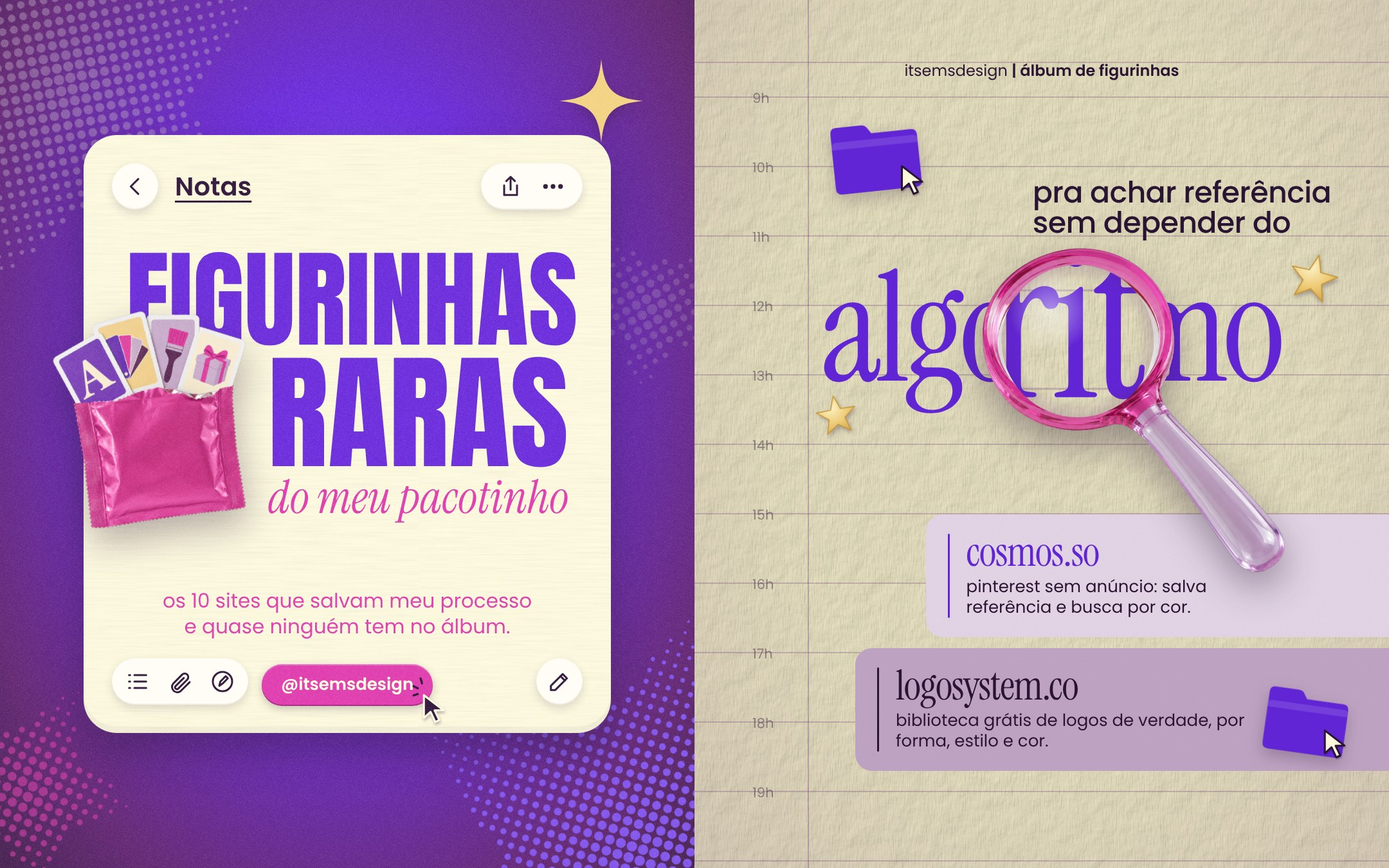
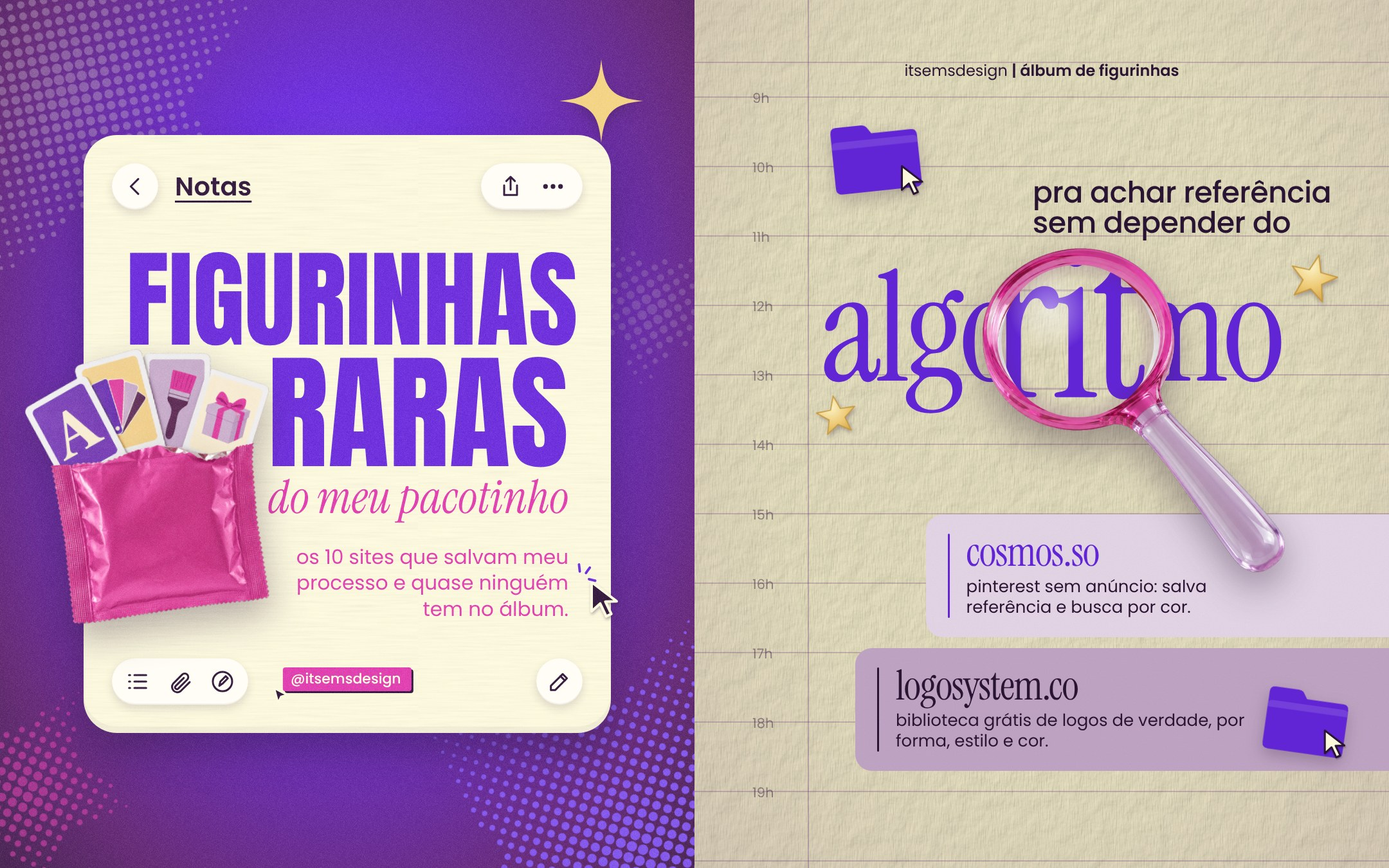
EMS figurinhas raras v4: capa com pacote maior, texto alinhado ao título, @ como etiqueta e clique no cartão
Claude-Session: https://claude.ai/code/session_01CmCiKB9wFc4qQovptupnZT

Changed region(s): [[0.0, 0.3422, 0.4653, 0.84]]

diff --git a/Emi/ems-album-figurinhas/projeto/carrossel.html b/Emi/ems-album-figurinhas/projeto/carrossel.html
@@ -101,17 +101,15 @@ const brilho4 = (x, y, tam, cor, r = 0) => `<svg class="abs" style="left:${x}px;
       <div class="abs" style="left:66px;top:182px;font-family:'Anton';font-size:166px;line-height:.9;color:var(--violeta)">FIGURINHAS</div>
       <div class="abs" id="capa-raras" style="right:66px;top:344px;font-family:'Anton';font-size:196px;line-height:.9;color:var(--violeta)">RARAS</div>
       <div class="abs" id="capa-pac" style="right:66px;top:528px;font-family:var(--serif);font-style:italic;font-size:80px;line-height:1;color:var(--pink);white-space:nowrap">do meu pacotinho</div>
-      <div class="abs" style="left:110px;right:110px;top:704px;text-align:center;font-family:var(--sans);font-size:31px;line-height:1.3;color:var(--pink)">os 10 sites que salvam meu processo e quase ninguém tem no álbum.</div>
+      <div class="abs" style="right:66px;top:636px;width:430px;text-align:right;font-family:var(--sans);font-size:31px;line-height:1.3;color:var(--pink)">os 10 sites que salvam meu processo e quase ninguém tem no álbum.</div>
       <div class="abs" style="left:44px;bottom:44px">${botao(ic('<path d="M4 6h1M9 6h11M4 12h1M9 12h11M4 18h1M9 18h11"/>') + ic('<path d="M21 12.5l-8.5 8.5a5 5 0 01-7-7L14 5.5a3.3 3.3 0 014.7 4.7L10.2 18.7a1.7 1.7 0 01-2.4-2.4L15.5 8.6"/>') + ic('<circle cx="12" cy="12" r="9"/><path d="M9 16l1-4 5-5 2 2-5 5-3 2z"/>'))}</div>
       <div class="abs" style="right:44px;bottom:44px">${botao(ic('<path d="M4 20h4L19 9l-4-4L4 16v4z"/><path d="M13 7l4 4"/>'), 'padding:16px;')}</div>
     </div>
-    ${objeto({ x: CX - 34, y: CY + 272, w: 300, r: -8, src: 'pacotinho' })}
-    <div class="abs" style="left:540px;top:${CY + 930 - 44 - 66}px;transform:translateX(-50%)">
-      <div style="font-family:var(--sans);font-weight:600;font-size:26px;line-height:1;color:var(--ivory);background:var(--pink);padding:18px 30px 19px;border-radius:999px;
-        box-shadow:0 2px 0 #a3207c, 0 6px 14px rgba(42,20,51,.28), inset 0 2px 0 rgba(255,255,255,.25);transform:translateY(3px)">@itsemsdesign</div>
-      <svg class="abs" style="right:-30px;bottom:-34px;width:50px;filter:drop-shadow(1px 3px 2px rgba(42,20,51,.35))" viewBox="0 0 24 24"><path d="M3 2 L3 19 L8 14.5 L11.5 22 L14.5 20.6 L11 13.4 L17.6 13.2 Z" fill="${css('tinta')}" stroke="${css('ivory')}" stroke-width="1.5" stroke-linejoin="round"/></svg>
-      <svg class="abs" style="right:-12px;bottom:-4px;width:44px" viewBox="0 0 40 40" fill="none" stroke="${css('tinta')}" stroke-width="3" stroke-linecap="round"><path d="M8 16 L2 13"/><path d="M14 9 L12 2"/><path d="M8 24 L2 26"/></svg>
-    </div>
+    ${objeto({ x: CX - 74, y: CY + 330, w: 380, r: -8, src: 'pacotinho' })}
+    <div class="handle" style="left:540px;top:${CY + 930 - 44 - 58}px;transform:translateX(-50%);--bg:var(--pink)">@itsemsdesign${CURSOR}</div>
+    <!-- o clique é no cartão: como se abrisse a nota -->
+    <svg class="abs" style="left:912px;top:${CY + 690}px;width:64px;filter:drop-shadow(1px 3px 2px rgba(42,20,51,.35))" viewBox="0 0 24 24"><path d="M3 2 L3 19 L8 14.5 L11.5 22 L14.5 20.6 L11 13.4 L17.6 13.2 Z" fill="${css('tinta')}" stroke="${css('ivory')}" stroke-width="1.5" stroke-linejoin="round"/></svg>
+    <svg class="abs" style="left:880px;top:${CY + 662}px;width:48px" viewBox="0 0 40 40" fill="none" stroke="${css('violeta')}" stroke-width="3.2" stroke-linecap="round"><path d="M30 24 L38 26"/><path d="M26 16 L31 9"/><path d="M18 14 L17 5"/></svg>
   `, `<div class="abs" style="inset:0;background:radial-gradient(ellipse at 50% 42%, var(--violeta-2) 0%, var(--violeta) 38%, var(--plum) 80%, var(--ameixa) 100%)"></div>`, 'grao-forte');
 })();
 
